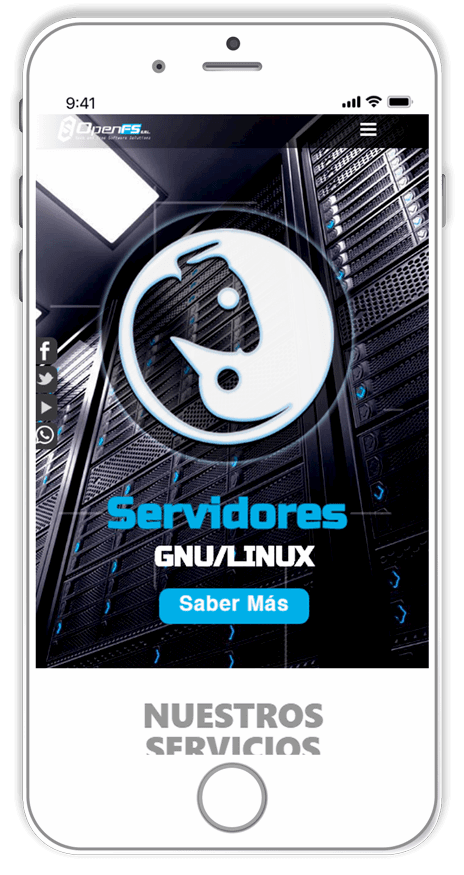
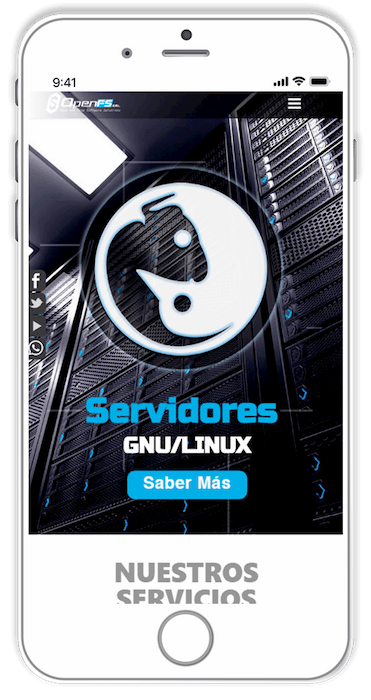
feat: add social buttons

diff --git a/themes/openfs/assets/css/style.css b/themes/openfs/assets/css/style.css
@@ -197,6 +197,29 @@ HERO SECTION
   width: 100%;
 }
 
+.slider-hero {
+  position: relative;
+  height: 300px; /* ajusta según tu diseño */
+  overflow: hidden;
+}
+
+.frase-item {
+  position: absolute;
+  top: 0;
+  left: 0;
+  right: 0;
+  opacity: 0;
+  transition: opacity 1s ease-in-out;
+  z-index: 0;
+}
+
+.frase-item.active {
+  opacity: 1;
+  z-index: 1;
+  position: relative;
+}
+
+
 /*-------------------------------------
 SERVICES SECTION
 ----------------------------------------*/
@@ -562,6 +585,13 @@ FOOTER SECTION
 }
 
 /*-------------------------------------------------*/
+/* Blog
+/*-------------------------------------------------*/
+.post-content h2 ¨{
+  color: red!important;
+}
+
+/*-------------------------------------------------*/
 /* PORTAFOLIO
 /*-------------------------------------------------*/
 .pagination {
@@ -589,9 +619,11 @@ FOOTER SECTION
     padding-left: 0;
     list-style: none;
 }
+
 /*-------------------------------------------------*/
 /* CONTACT
 /*-------------------------------------------------*/
+
 .contact::before {
   content: "";
   position: absolute;

diff --git a/themes/openfs/assets/js/index.js b/themes/openfs/assets/js/index.js
@@ -73,7 +73,6 @@ setInterval(() => {
 }, 4000);
 
 
-
 // services typing text effect
 const phrases = ["DISEÑO", "DESARROLLO"];
 const el = document.querySelector(".writing-text");

diff --git a/themes/openfs/single-article.php b/themes/openfs/single-article.php
@@ -32,13 +32,46 @@ if (have_posts()):
                 </div>
             <?php endif; ?>
 
-            <div class="post-content mt-3">
+            <div class="post-content mt-3" style="text-align:justify;">
                 <?php the_content(); ?>
             </div>
 
             <div class="post-meta mt-4 text-muted">
                 Publicado el <?php echo get_the_date(); ?> por <?php the_author(); ?>
             </div>
+
+            <a href="https://www.facebook.com/sharer/sharer.php?u=<?php echo urlencode(get_permalink()); ?>" 
+                target="_blank"
+                class="btn text-white" style="background-color:#244872;">
+                <svg xmlns="http://www.w3.org/2000/svg" width="16" height="16" fill="currentColor" class="bi bi-facebook" viewBox="0 0 16 16">
+                <path d="M16 8.049c0-4.446-3.582-8.05-8-8.05C3.58 0-.002 3.603-.002 8.05c0 4.017 2.926 7.347 6.75 7.951v-5.625h-2.03V8.05H6.75V6.275c0-2.017 1.195-3.131 3.022-3.131.876 0 1.791.157 1.791.157v1.98h-1.009c-.993 0-1.303.621-1.303 1.258v1.51h2.218l-.354 2.326H9.25V16c3.824-.604 6.75-3.934 6.75-7.951"/>
+                </svg>
+                Compartir en Facebook
+            </a>
+
+            <a href="https://twitter.com/intent/tweet?text=<?php echo urlencode(get_the_title()); ?>&url=<?php echo urlencode(get_permalink()); ?>" 
+                target="_blank" 
+                rel="noopener noreferrer"
+                class="btn btn-dark">
+                <svg xmlns="http://www.w3.org/2000/svg" width="16" height="16" fill="currentColor" class="bi bi-twitter-x" viewBox="0 0 16 16">
+                    <path d="M12.6.75h2.454l-5.36 6.142L16 15.25h-4.937l-3.867-5.07-4.425 5.07H.316l5.733-6.57L0 .75h5.063l3.495 4.633L12.601.75Zm-.86 13.028h1.36L4.323 2.145H2.865z"/>
+                </svg>
+                Compartir en X
+            </a>
+            <?php 
+                $mensaje = get_the_title() . ' - ' . get_permalink();
+            ?>
+            <a href="https://api.whatsapp.com/send?text=<?php echo urlencode($mensaje); ?>" 
+                target="_blank" 
+                rel="noopener noreferrer"
+                class="btn btn-success">
+                <svg xmlns="http://www.w3.org/2000/svg" width="16" height="16" fill="currentColor" class="bi bi-whatsapp" viewBox="0 0 16 16">
+                    <path d="M13.601 2.326A7.85 7.85 0 0 0 7.994 0C3.627 0 .068 3.558.064 7.926c0 1.399.366 2.76 1.057 3.965L0 16l4.204-1.102a7.9 7.9 0 0 0 3.79.965h.004c4.368 0 7.926-3.558 7.93-7.93A7.9 7.9 0 0 0 13.6 2.326zM7.994 14.521a6.6 6.6 0 0 1-3.356-.92l-.24-.144-2.494.654.666-2.433-.156-.251a6.56 6.56 0 0 1-1.007-3.505c0-3.626 2.957-6.584 6.591-6.584a6.56 6.56 0 0 1 4.66 1.931 6.56 6.56 0 0 1 1.928 4.66c-.004 3.639-2.961 6.592-6.592 6.592m3.615-4.934c-.197-.099-1.17-.578-1.353-.646-.182-.065-.315-.099-.445.099-.133.197-.513.646-.627.775-.114.133-.232.148-.43.05-.197-.1-.836-.308-1.592-.985-.59-.525-.985-1.175-1.103-1.372-.114-.198-.011-.304.088-.403.087-.088.197-.232.296-.346.1-.114.133-.198.198-.33.065-.134.034-.248-.015-.347-.05-.099-.445-1.076-.612-1.47-.16-.389-.323-.335-.445-.34-.114-.007-.247-.007-.38-.007a.73.73 0 0 0-.529.247c-.182.198-.691.677-.691 1.654s.71 1.916.81 2.049c.098.133 1.394 2.132 3.383 2.992.47.205.84.326 1.129.418.475.152.904.129 1.246.08.38-.058 1.171-.48 1.338-.943.164-.464.164-.86.114-.943-.049-.084-.182-.133-.38-.232"/>
+                </svg>
+                Compartir en WhatsApp
+            </a>
+
+
 
         </article>
 

diff --git a/themes/openfs/footer.php b/themes/openfs/footer.php
@@ -7,7 +7,7 @@
             <div class="col-md-5">
                 <img src="<?php echo get_template_directory_uri(); ?>/assets/img/openfs-neutral-logo.png" alt="Open FS Logo">
                 <p class="py-2">Diseño y Desarrollo De Paginas Web</p>
-                <ul class="list-unstyled" style="font-size: .75rem;">
+                <ul class="list-unstyled d-flex flex-column justify-content-between gap-2" style="font-size: .75rem;">
                     <li>
                         <svg xmlns="http://www.w3.org/2000/svg" class="text-primary" width="24" height="24"
                             viewBox="0 0 24 24" fill="none" stroke="currentColor" stroke-width="2"
@@ -58,7 +58,7 @@
 
             <div class="col-md-4 no-blue-links">
                 <p class="fw-bold">NUESTROS SERVICIOS</p></ul>
-                <ul class="list-unstyled">
+                <ul class="list-unstyled d-flex flex-column justify-content-between gap-2">
                 <?php
                     $services = new WP_Query([
                         'post_type' => 'service',
@@ -70,7 +70,16 @@
                 ?> 
                 <?php if ($services->have_posts()): ?>
                     <?php while($services->have_posts()): $services->the_post(); ?>
-                        <li><a href="<?php the_permalink(); ?>"><?php the_title(); ?></a></li>
+                        <li>
+                            <a href="<?php the_permalink(); ?>">
+                                <?php
+                                $titulo = get_the_title();
+                                $titulo = mb_strtolower($titulo, 'UTF-8');
+                                $titulo = mb_strtoupper(mb_substr($titulo, 0, 1), 'UTF-8') . mb_substr($titulo, 1);
+                                echo $titulo;
+                                ?>
+                            </a>
+                        </li>
                     <?php endwhile; ?>
                 </ul>
                 <?php else: ?>
@@ -80,7 +89,7 @@
 
             <div class="col-md-3 no-blue-links">
                 <p class="fw-bold">ENLACES</p>
-                <ul class="list-unstyled">
+                <ul class="list-unstyled d-flex flex-column justify-content-between gap-2">
                     <li><a href="<?php echo site_url('/'); ?>">Inicio</a></li>
                     <li><a href="<?php echo site_url('/about'); ?>">Sobre Nosotros</a></li>
                     <li><a href="<?php echo site_url('/articulos'); ?>">Nuestro Blog</a></li>

diff --git a/themes/openfs/header.php b/themes/openfs/header.php
@@ -70,7 +70,7 @@
             <nav id="menu" class="menu-slide bg-white position-fixed top-0 end-0 translate-end">
                 <ul class="list-unstyled m-0 p-4">
                     <li class="d-flex justify-content-end pb-3">
-                        <button id="close-menu-button" class="btn btn-primary btn-sm">
+                        <button id="close-menu-button" class="btn btn-primary btn-sm" aria-label="Cerrar menú">
                             <svg xmlns="http://www.w3.org/2000/svg" width="24" height="24" viewBox="0 0 24 24"
                                 fill="none" stroke="currentColor" stroke-width="2" stroke-linecap="round"
                                 stroke-linejoin="round" class="lucide lucide-x-icon lucide-x">

diff --git a/themes/openfs/template-parts/promotion.php b/themes/openfs/template-parts/promotion.php
@@ -9,7 +9,7 @@
                 <div class="row">
                     <div class="col-lg-6 position-relative d-none d-lg-block">
                         <div class="phone-wrapper-animation">
-                            <img height="700px" class="promotion-phone" src="<?php echo get_template_directory_uri(); ?>/assets/img/phone.png"
+                            <img class="promotion-phone" src="<?php echo get_template_directory_uri(); ?>/assets/img/phone.png"
                                 alt="Telefono con una muestra de nuestro trabajo">
                         </div>
                     </div>
